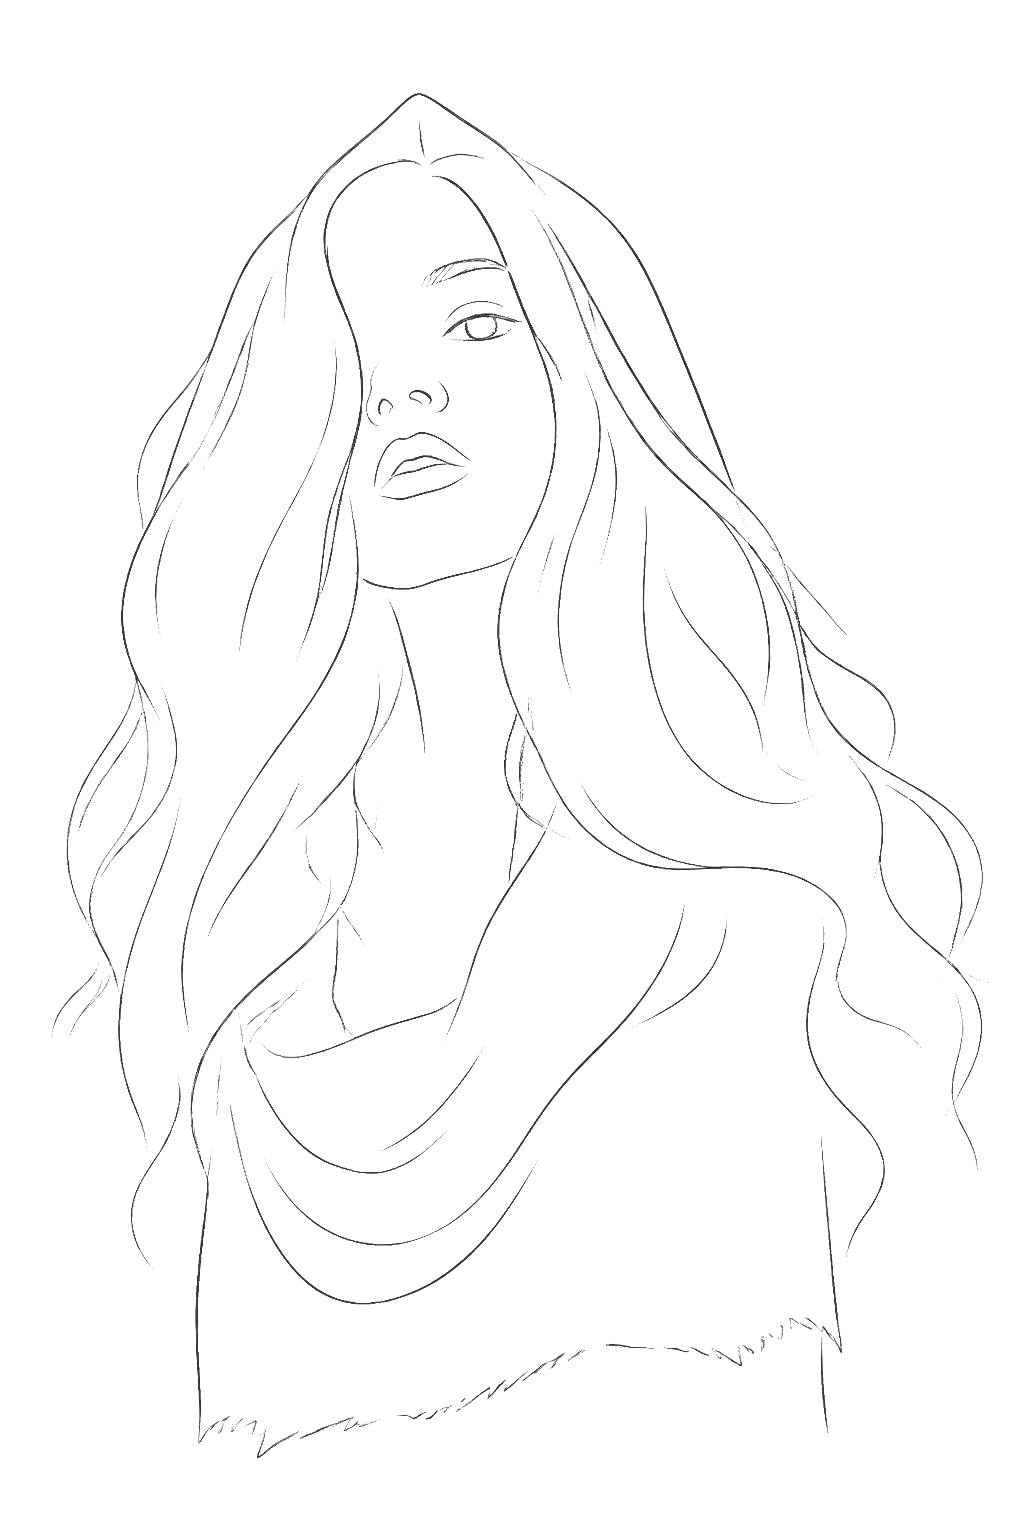
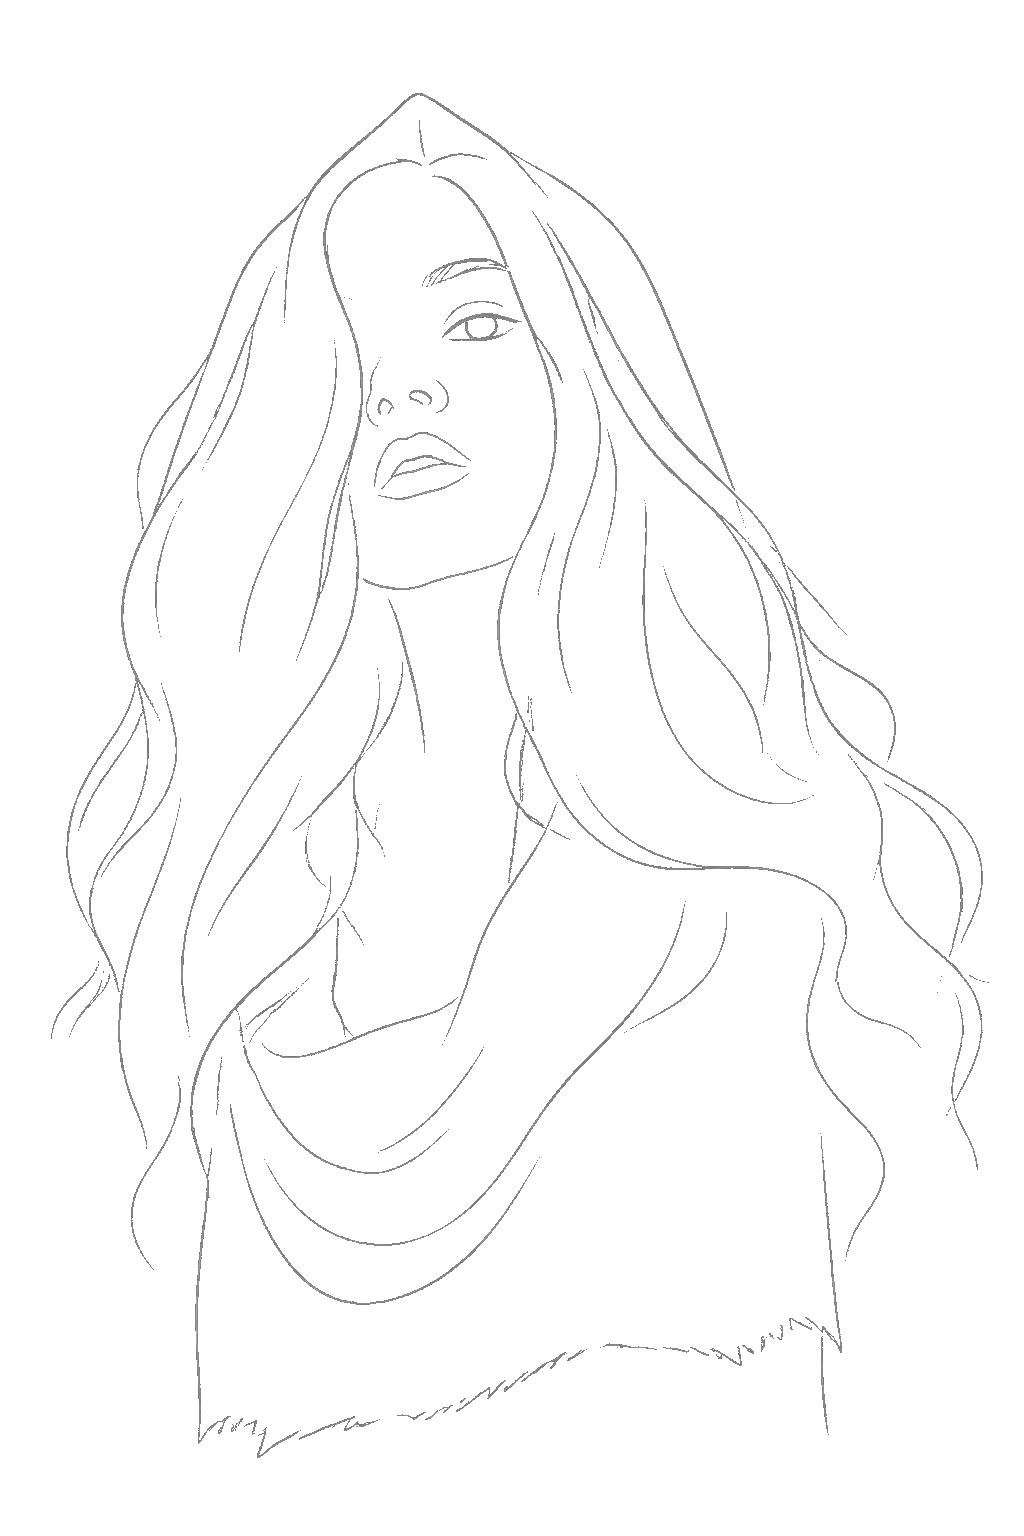
Cap how many vines can grow and make her line-trace readable again.

diff --git a/index.html b/index.html
@@ -7,16 +7,16 @@
     <link rel="preconnect" href="https://fonts.googleapis.com" />
     <link rel="preconnect" href="https://fonts.gstatic.com" crossorigin />
     <link href="https://fonts.googleapis.com/css2?family=IM+Fell+English&display=swap" rel="stylesheet" />
-    <link rel="stylesheet" href="styles.css?v=17" />
+    <link rel="stylesheet" href="styles.css?v=18" />
   </head>
   <body>
-    <img class="sister" src="assets/sister-silhouette.png?v=17" alt="" />
+    <img class="sister" src="assets/sister-silhouette.png?v=18" alt="" />
     <canvas id="field" aria-hidden="true"></canvas>
     <h1 class="wordmark">
       <span class="drop"><span class="drop-letter">G</span></span>
       <span class="rest">esserit</span>
     </h1>
     <canvas id="illumination" aria-hidden="true"></canvas>
-    <script src="script.js?v=17"></script>
+    <script src="script.js?v=18"></script>
   </body>
 </html>

diff --git a/script.js b/script.js
@@ -11,10 +11,11 @@ const BLOOM_DELAY = 1280;
 const SPRAWL_STAGGER = 4400;
 const STEM_LEAD = 260;
 const GRID_REVEAL_MS = 920;
-const BLOOM_SPEED_FAST = 0.0054;
-const BLOOM_SPEED_SLOW = 0.00095;
+const BLOOM_SPEED_FAST = 0.0032;
+const BLOOM_SPEED_SLOW = 0.0007;
 const FADE_SPEED = 0.0012;
 const PERSIST_MS = 9800;
+const MAX_BLOOMS = 34;
 const GRID_STICK_MS = 16000;
 const GRID_STICK_FADE = 0.00055;
 const GOLDEN = Math.PI * (3 - Math.sqrt(5));
@@ -1033,6 +1034,7 @@ function updateHoverBlooms(now) {
         active.add(key);
         let node = blooms.get(key);
         if (!node) {
+          if (blooms.size >= MAX_BLOOMS) continue;
           node = { x, y, seed: hash(ix, iy), revealedAt: now, bloom: 0, stem: 0, leftAt: 0 };
           blooms.set(key, node);
         }

diff --git a/styles.css b/styles.css
@@ -33,9 +33,8 @@ body {
   object-position: left bottom;
   pointer-events: none;
   user-select: none;
-  opacity: 0.62;
-  mix-blend-mode: screen;
-  filter: brightness(1.15) contrast(1.05);
+  opacity: 0.88;
+  filter: brightness(1.55) contrast(1.2);
 }
 
 #field,
